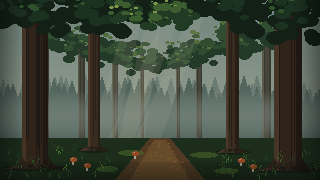
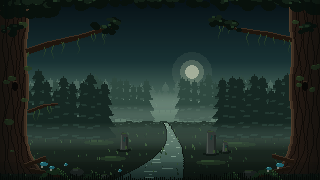
Redraw forest background: misty fir forest with stream, rune stones and glowing glints layer

diff --git a/ui/style.css b/ui/style.css
@@ -228,7 +228,7 @@ button.card:disabled { opacity: .45; cursor: default; }
 @keyframes fx-drift { to { transform: translateX(50%); } }
 @keyframes fx-pulse { from { opacity: .15; } to { opacity: 1; } }
 @keyframes fx-flicker { 0% { opacity: 1; } 30% { opacity: .55; } 45% { opacity: .9; } 70% { opacity: .65; } 85% { opacity: 1; } }
-.fx-forest .l1 { background-image: url(assets/hintergrund/fx/strahlen.png); }
+.fx-forest .l1 { background-image: url(assets/hintergrund/fx/wald_glanz.png); background-size: cover; background-position: center; background-repeat: no-repeat; }
 .fx-forest .l2 { background-image: url(assets/hintergrund/fx/nebel.png); }
 .fx-forest .l3 { background-image: url(assets/hintergrund/fx/blaetter.png); }
 .fx-forest .l4 { background-image: url(assets/hintergrund/fx/funken.png); }
@@ -352,7 +352,7 @@ h3 { font-size: 12px; font-weight: 400; }
 .relicgain { font-size: 9px; line-height: 1.7; }
 .rl { font-size: 9px; }
 /* Motion of the effect layers per region. */
-.fx-forest .l1 { --d: 7s; animation: fx-pulse var(--d) steps(5) infinite alternate; }
+.fx-forest .l1 { --d: 2.4s; animation: fx-pulse var(--d) steps(4) infinite alternate; }
 .fx-forest .l2 { --d: 90s; width: 200%; left: -100%; background-size: 50% 100%; animation: fx-drift var(--d) steps(320) infinite; }
 .fx-forest .l3 { --d: 22s; top: -100%; height: 200%; background-size: 100% 50%; animation: fx-fall var(--d) steps(180) infinite; }
 .fx-forest .l4 { --d: 2.6s; animation: fx-pulse var(--d) steps(4) infinite alternate; }

diff --git a/CLAUDE.md b/CLAUDE.md
@@ -17,7 +17,8 @@ Deckbuilder-Roguelike als reine Web-App (Rust + WebAssembly, statisch auf Cloudf
 - Kartendesign im 8-Bit-Stil: Pixelrahmen je Typ (Angriff abgeschrägt, Fertigkeit gerundet, Kraft mit Goldnieten, Status angeschlagen), geditherter Hintergrund nach Klasse, Bildrahmen und Edelstein nach Seltenheit, Schrift im ganzen Spiel „Press Start 2P“ (Größen möglichst Vielfache von 8 px, Kartentexte 8 px).
 - Blutung (`Statuses::bleed`, Karteneffekt `bleed`): neu, nicht aus dem Prototyp. Ein Gegner mit Blutung X verliert nach jedem eigenen Angriff X LP (Block hilft nicht); am Ende seines Zuges sinkt die Blutung um 1. Ausbluten (Schütze, selten) ist dafür ein Wurf-Angriff mit 3 Schaden und 5 Blutung statt „Gift verdoppeln“.
   - `hintergrund/{titel,wald,wueste,festung}.ps1`: eigener Hintergrund für den Startbildschirm und je Gebiet (CSS-Klasse `bg-<region-id>` bzw. `bg-title`), gemeinsame Helfer in `pixel.ps1`.
-  - `hintergrund/effekte.ps1`: durchsichtige Effektebenen (Schnee, Glut, Asche, Blätter, Nebel, Glühwürmchen, Sterne, Lichtstrahlen, Nordlicht, Feuerschein) nach `ui/assets/hintergrund/fx/`. Welche Ebene wo und wie läuft, steht im CSS unter `.fx-<id>`; Bewegung in Schritten von einem Bildpixel.
+  - `hintergrund/wald.ps1` schreibt zusätzlich `fx/wald_glanz.png` (Bachglitzern, Runen, Pilze), deckungsgleich zum Bild (CSS `background-size: cover` wie `.bgimg`).
+  - `hintergrund/effekte.ps1`: durchsichtige Effektebenen (Schnee, Glut, Asche, Blätter, Nebel, Glühwürmchen, Sterne, Nordlicht, Feuerschein) nach `ui/assets/hintergrund/fx/`. Welche Ebene wo und wie läuft, steht im CSS unter `.fx-<id>`; Bewegung in Schritten von einem Bildpixel.
   - Die fertigen PNGs in `ui/assets/` sind eingecheckt und werden von Trunk mitkopiert. Die Skripte brauchen Windows-PowerShell (System.Drawing).
 - `data/`: Spielinhalte als JSON (per serde geladen, in die engine eingebettet). Neue Inhalte sind neue Einträge, kein neuer Code.
 
